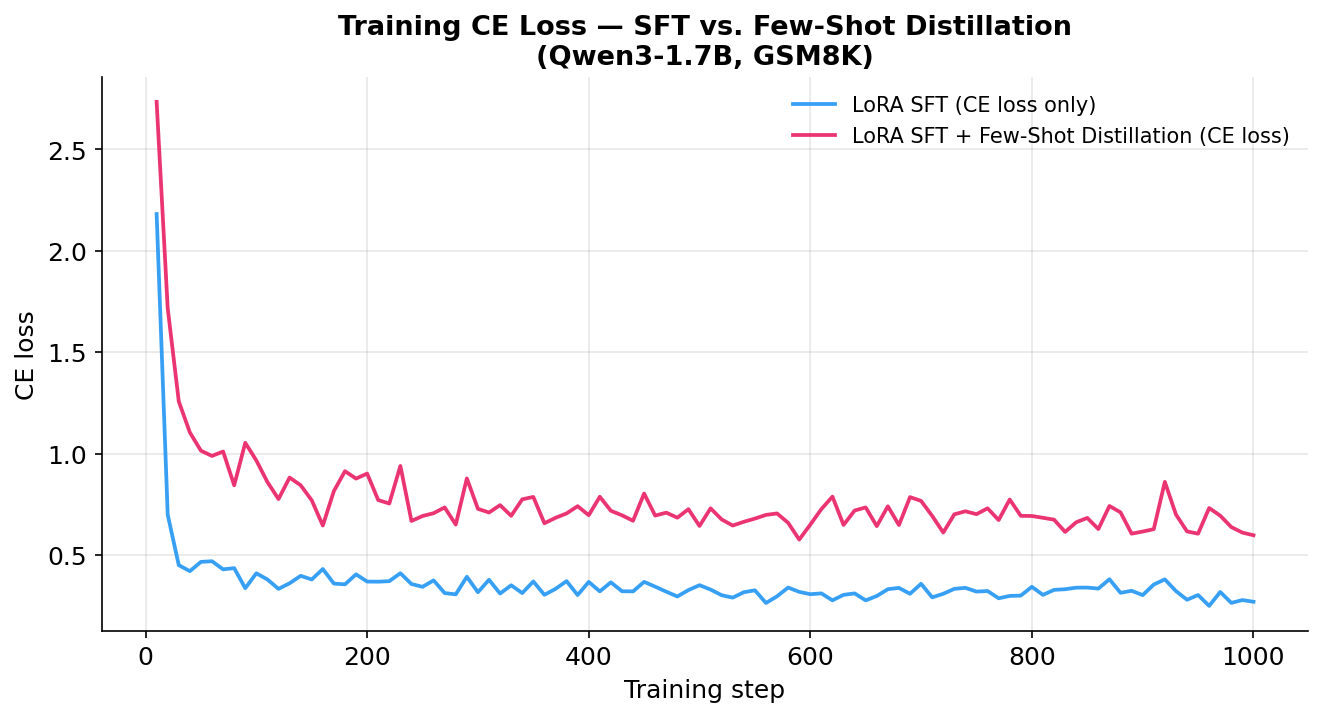
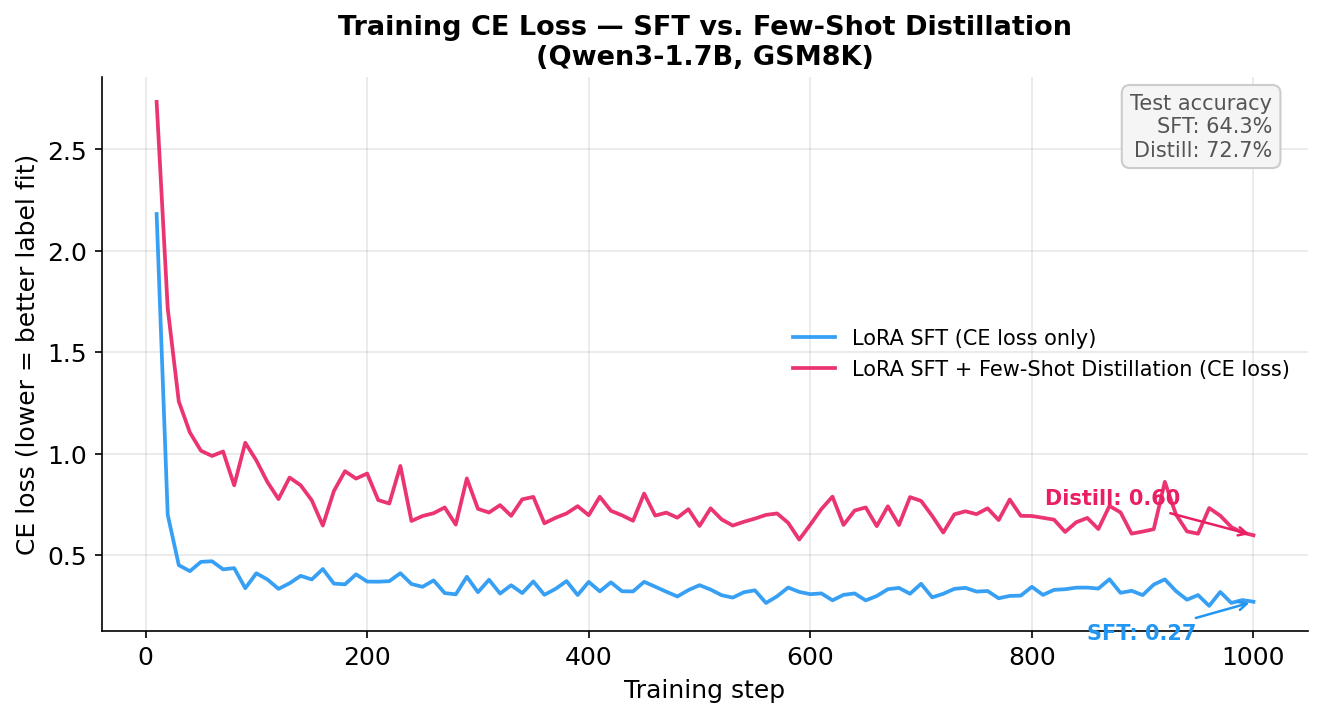
update readme

diff --git a/scripts/gen_loss_fig.py b/scripts/gen_loss_fig.py
@@ -65,10 +65,32 @@ if v1_loss:
             label="LoRA SFT + Few-Shot Distillation (CE loss)")
 
 ax.set_xlabel("Training step", fontsize=12)
-ax.set_ylabel("CE loss", fontsize=12)
+ax.set_ylabel("CE loss (lower = better label fit)", fontsize=12)
 ax.set_title("Training CE Loss — SFT vs. Few-Shot Distillation\n(Qwen3-1.7B, GSM8K)",
              fontsize=13, fontweight="bold")
+
+# Annotate final values
+if baseline_loss:
+    bfinal = baseline_loss[-1][1]
+    ax.annotate(f"SFT: {bfinal:.2f}", xy=(baseline_loss[-1][0], bfinal),
+                xytext=(-80, -18), textcoords="offset points",
+                color="#2196F3", fontsize=10, fontweight="bold",
+                arrowprops=dict(arrowstyle="->", color="#2196F3", lw=1.2))
+if v1_loss:
+    vfinal = v1_loss[-1][1]
+    ax.annotate(f"Distill: {vfinal:.2f}", xy=(v1_loss[-1][0], vfinal),
+                xytext=(-100, 15), textcoords="offset points",
+                color="#E91E63", fontsize=10, fontweight="bold",
+                arrowprops=dict(arrowstyle="->", color="#E91E63", lw=1.2))
+
 ax.legend(frameon=False, fontsize=10)
+
+# Add accuracy callout as text box
+ax.text(0.97, 0.97,
+        "Test accuracy\nSFT: 64.3%\nDistill: 72.7%",
+        transform=ax.transAxes, ha="right", va="top",
+        fontsize=10, color="#555",
+        bbox=dict(boxstyle="round,pad=0.4", facecolor="#f5f5f5", edgecolor="#ccc"))
 
 fig.tight_layout()
 out = Path("assets/loss_comparison.png")

diff --git a/README.md b/README.md
@@ -108,11 +108,17 @@ training — not an artifact of early-step noise or a single lucky checkpoint.
 
 ![Loss comparison](assets/loss_comparison.png)
 
-Distillation reaches lower CE loss **faster** and **converges to a lower final value**.
-At step 200 the distillation CE loss is already where the SFT baseline reaches at step
-400+. The soft-label signal from the few-shot teacher acts as a better-shaped gradient
-landscape — the model doesn't have to discover the right token distribution purely from
-hard supervision; it receives a warm, context-informed target at every step.
+The distillation model has **higher** CE loss throughout training (~0.60 at step 1000
+vs ~0.27 for SFT). This is expected: the distillation term pulls the student's logits
+toward the teacher's few-shot distribution, which differs from the hard ground-truth
+labels the CE loss is measured against. The model is trading off label memorisation for
+a richer, teacher-informed signal.
+
+The result is classic soft-label distillation behaviour: **worse fit to training labels,
+much better generalisation**. SFT overfits to one-hot targets and plateaus at 64%;
+the distillation model, despite (because of) its higher CE loss, reaches 72.71% on the
+test set. The teacher's soft distribution acts as a regulariser that prevents over-fitting
+to the specific gold tokens and instead captures the broader structure of the problem.
 
 ---
 
